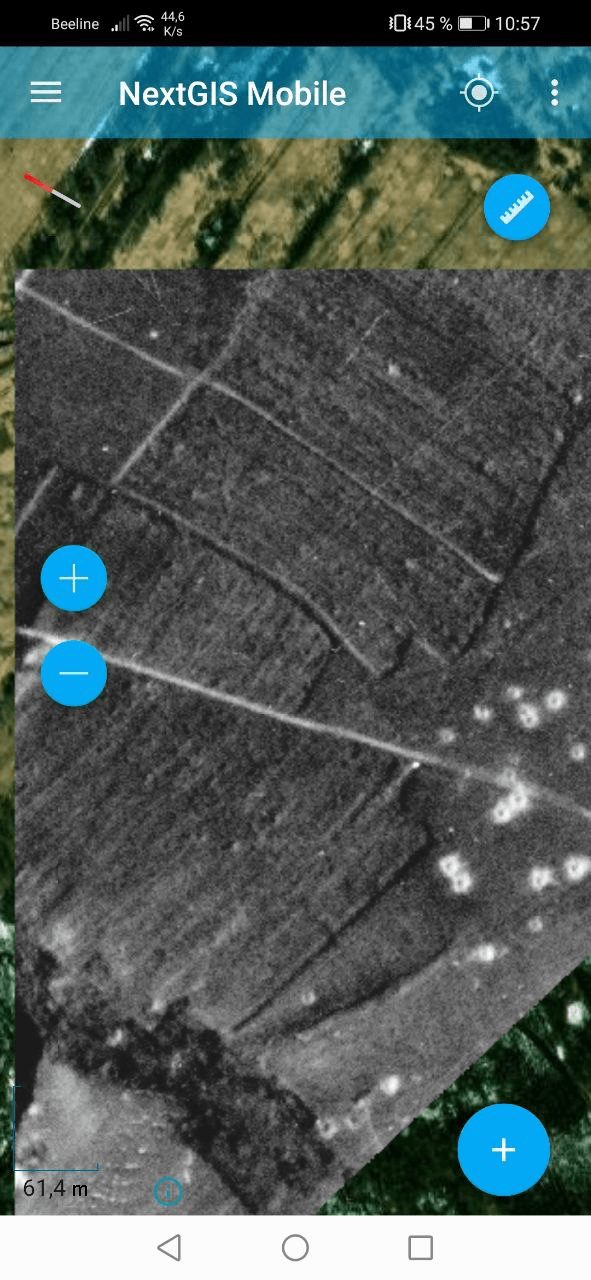
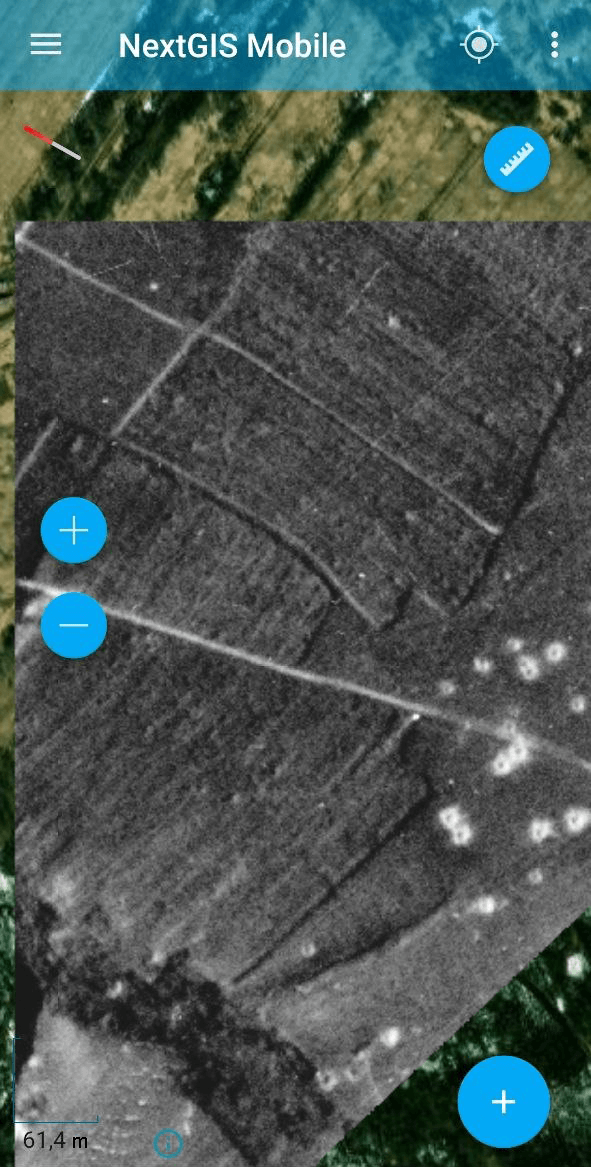
update links and screen

diff --git a/source/flood_analysis.rst b/source/flood_analysis.rst
@@ -5,7 +5,7 @@ Terrain-based flood susceptibility analysis using TWI, log-transformed flow accu
 
 Inputs:
 
-* Terrain Analysis Package (ZIP). ZIP file from terrain_analysis containing DEM, slope, TWI, flow accumulation, TPI, streams, flow direction, and manifest.json
+* Terrain Analysis Package (ZIP). ZIP file from `Comprehensive Terrain Analysis <https://toolbox.nextgis.com/t/terrain_analysis>`_ containing DEM, slope, TWI, flow accumulation, TPI, streams, flow direction, and manifest.json
 * Weight: TWI. Weight for the Topographic Wetness Index indicator (default: 0.30)
 * Weight: Flow Accumulation. Weight for the log-transformed flow accumulation indicator (default: 0.25)
 * Weight: Slope (inverted). Weight for the inverted slope indicator — flat areas have higher flood risk (default: 0.20)
@@ -47,6 +47,7 @@ Example:
 
 .. admonition:: Related tools
 
+   * `Comprehensive Terrain Analysis <https://toolbox.nextgis.com/t/terrain_analysis>`_
    * `Erosion Susceptibility Analysis <https://toolbox.nextgis.com/t/erosion_analysis?from-related-tools=1>`_
    * `Landslide Susceptibility Analysis <https://toolbox.nextgis.com/t/landslide_analysis?from-related-tools=1>`_
    * `Wildfire Susceptibility Analysis (Topographic) <https://toolbox.nextgis.com/t/wildfire_analysis?from-related-tools=1>`_

diff --git a/source/landslide_analysis.rst b/source/landslide_analysis.rst
@@ -5,7 +5,7 @@ Heuristic landslide susceptibility index (after Anbalagan 1992) using sigmoid-tr
 
 Inputs:
 
-* Terrain Analysis Package (ZIP). ZIP file from terrain_analysis containing DEM, slope, curvature, TWI, TPI, TRI rasters and manifest.json
+* Terrain Analysis Package (ZIP). ZIP file from `Comprehensive Terrain Analysis <https://toolbox.nextgis.com/t/terrain_analysis>`_ containing DEM, slope, curvature, TWI, TPI, TRI rasters and manifest.json
 * Weight: Slope (sigmoid). Weight for the sigmoid-transformed slope indicator (default: 0.30)
 * Weight: Curvature. Weight for the combined curvature indicator (default: 0.15)
 * Weight: TWI. Weight for the Topographic Wetness Index (default: 0.20)
@@ -49,6 +49,7 @@ Example:
 
 .. admonition:: Related tools
 
+   * `Comprehensive Terrain Analysis <https://toolbox.nextgis.com/t/terrain_analysis>`_
    * `Flood Susceptibility Analysis <https://toolbox.nextgis.com/t/flood_analysis?from-related-tools=1>`_
    * `Erosion Susceptibility Analysis <https://toolbox.nextgis.com/t/erosion_analysis?from-related-tools=1>`_
    * `Wildfire Susceptibility Analysis (Topographic) <https://toolbox.nextgis.com/t/wildfire_analysis?from-related-tools=1>`_

diff --git a/source/erosion_analysis.rst b/source/erosion_analysis.rst
@@ -5,7 +5,7 @@ RUSLE-based erosion susceptibility analysis using LS-factor, STI, SPI, profile c
 
 Inputs:
 
-* Terrain Analysis Package (ZIP). ZIP file from terrain_analysis containing DEM, slope, flow accumulation, curvature, STI, SPI, and manifest.json
+* Terrain Analysis Package (ZIP). ZIP file from `Comprehensive Terrain Analysis <https://toolbox.nextgis.com/t/terrain_analysis>`_ containing DEM, slope, flow accumulation, curvature, STI, SPI, and manifest.json
 * Weight: LS-Factor. Weight for the LS-factor indicator (default: 0.35)
 * Weight: STI. Weight for the Sediment Transport Index (default: 0.25)
 * Weight: SPI. Weight for the Stream Power Index (default: 0.15)
@@ -47,6 +47,7 @@ Example:
 
 .. admonition:: Related tools
 
+   * `Comprehensive Terrain Analysis <https://toolbox.nextgis.com/t/terrain_analysis>`_
    * `Flood Susceptibility Analysis <https://toolbox.nextgis.com/t/flood_analysis?from-related-tools=1>`_
    * `Landslide Susceptibility Analysis <https://toolbox.nextgis.com/t/landslide_analysis?from-related-tools=1>`_
    * `Wildfire Susceptibility Analysis (Topographic) <https://toolbox.nextgis.com/t/wildfire_analysis?from-related-tools=1>`_

diff --git a/source/wildfire_analysis.rst b/source/wildfire_analysis.rst
@@ -5,7 +5,7 @@ Topographic wildfire susceptibility analysis using slope, Heat Load Index (Bohne
 
 Inputs:
 
-* Terrain Analysis Package (ZIP). ZIP file from terrain_analysis containing DEM, slope, aspect, TWI, TPI, TRI, and manifest.json
+* Terrain Analysis Package (ZIP). ZIP file from `Comprehensive Terrain Analysis <https://toolbox.nextgis.com/t/terrain_analysis>`_ containing DEM, slope, aspect, TWI, TPI, TRI, and manifest.json
 * Weight: Slope. Weight for the slope indicator (default: 0.25)
 * Weight: Heat Load Index. Weight for the Heat Load Index indicator (default: 0.25)
 * Weight: TPI. Weight for the Topographic Position Index (default: 0.15)
@@ -48,6 +48,7 @@ Example:
 
 .. admonition:: Related tools
 
+   * `Comprehensive Terrain Analysis <https://toolbox.nextgis.com/t/terrain_analysis>`_
    * `Flood Susceptibility Analysis <https://toolbox.nextgis.com/t/flood_analysis?from-related-tools=1>`_
    * `Landslide Susceptibility Analysis <https://toolbox.nextgis.com/t/landslide_analysis?from-related-tools=1>`_
    * `Erosion Susceptibility Analysis <https://toolbox.nextgis.com/t/erosion_analysis?from-related-tools=1>`_
